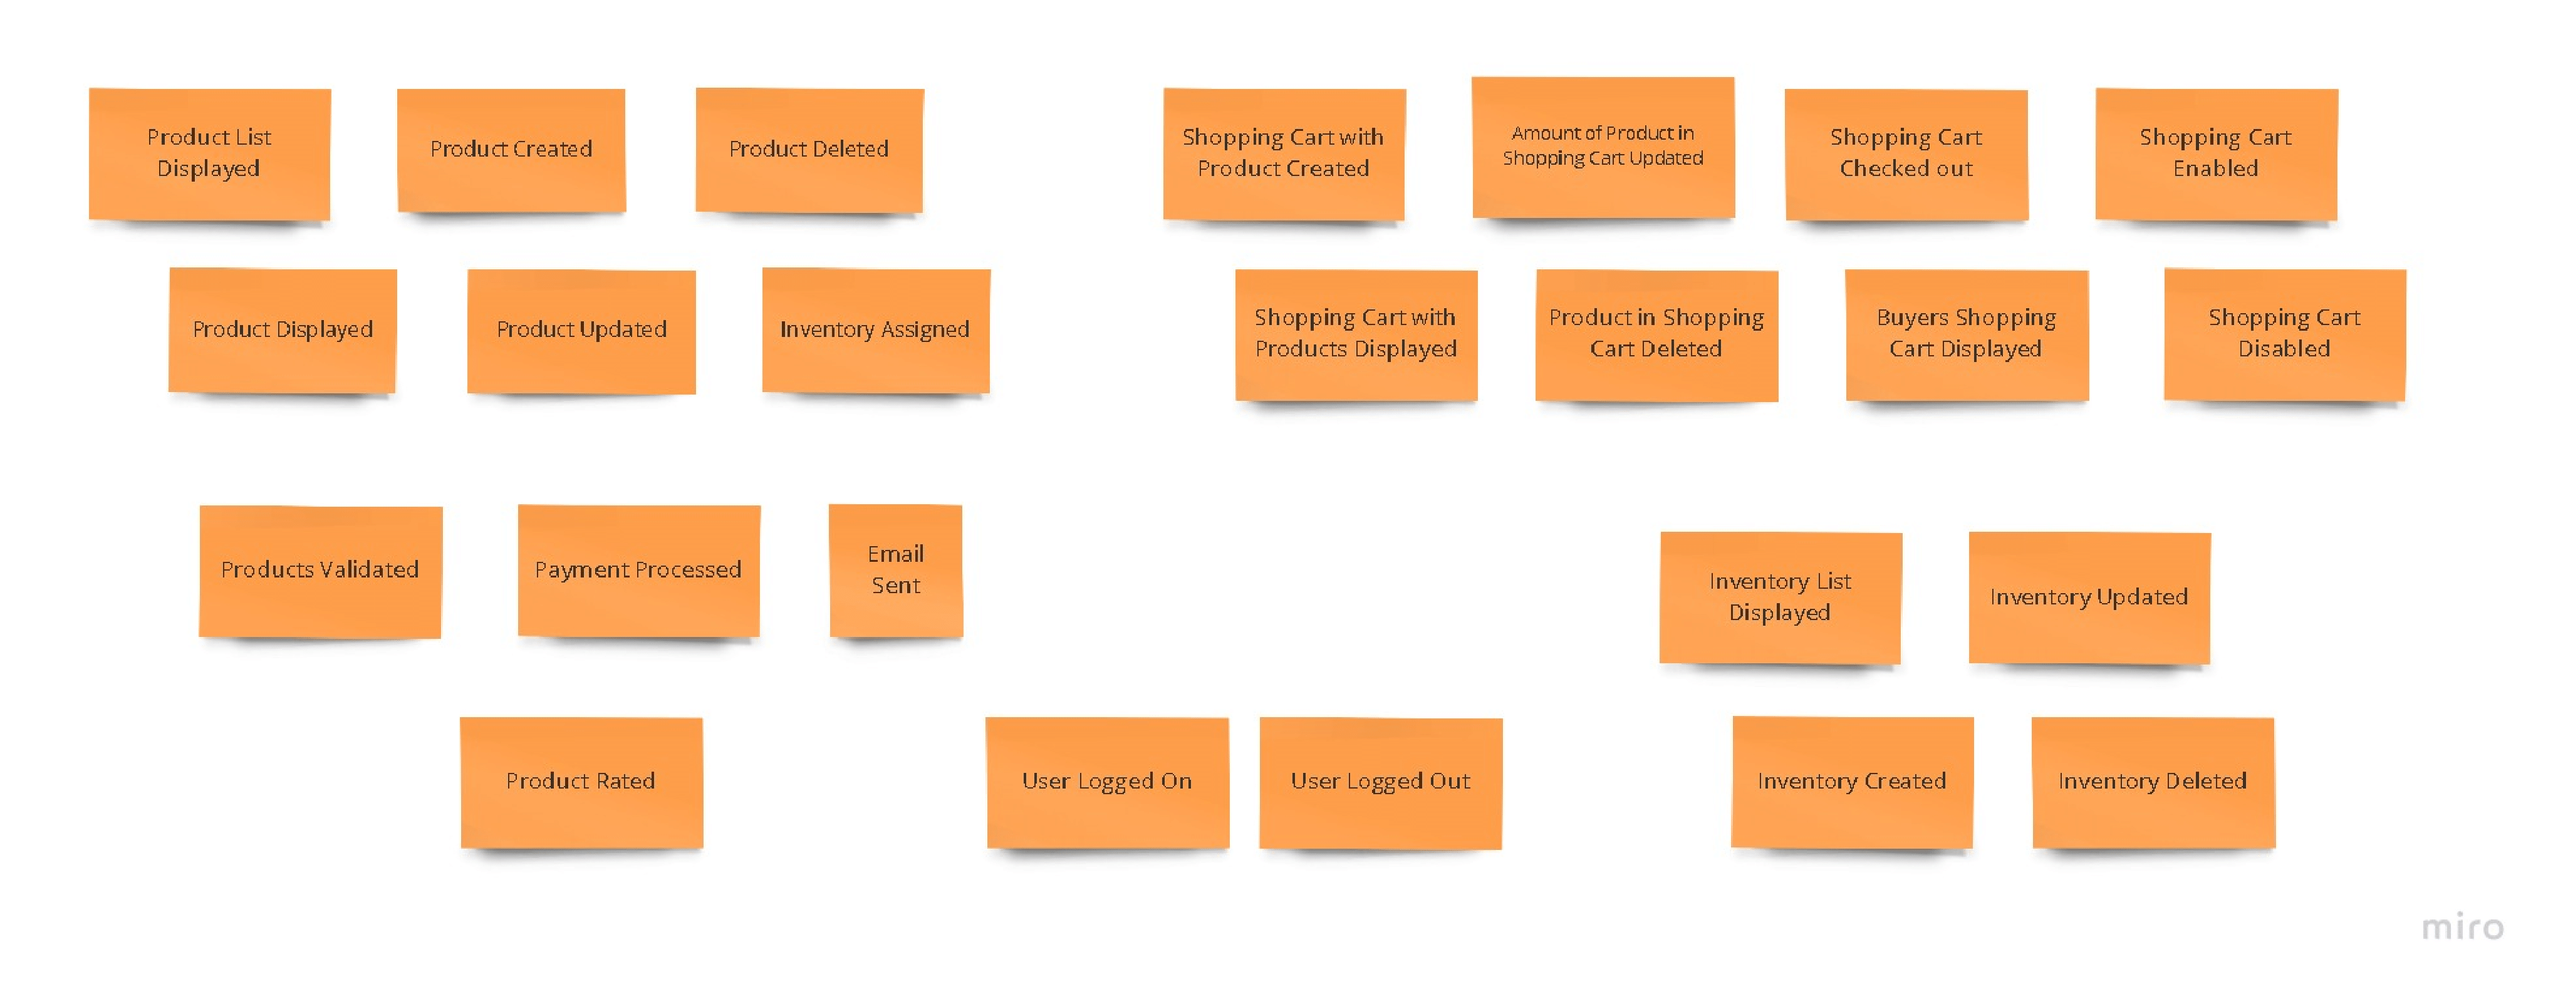
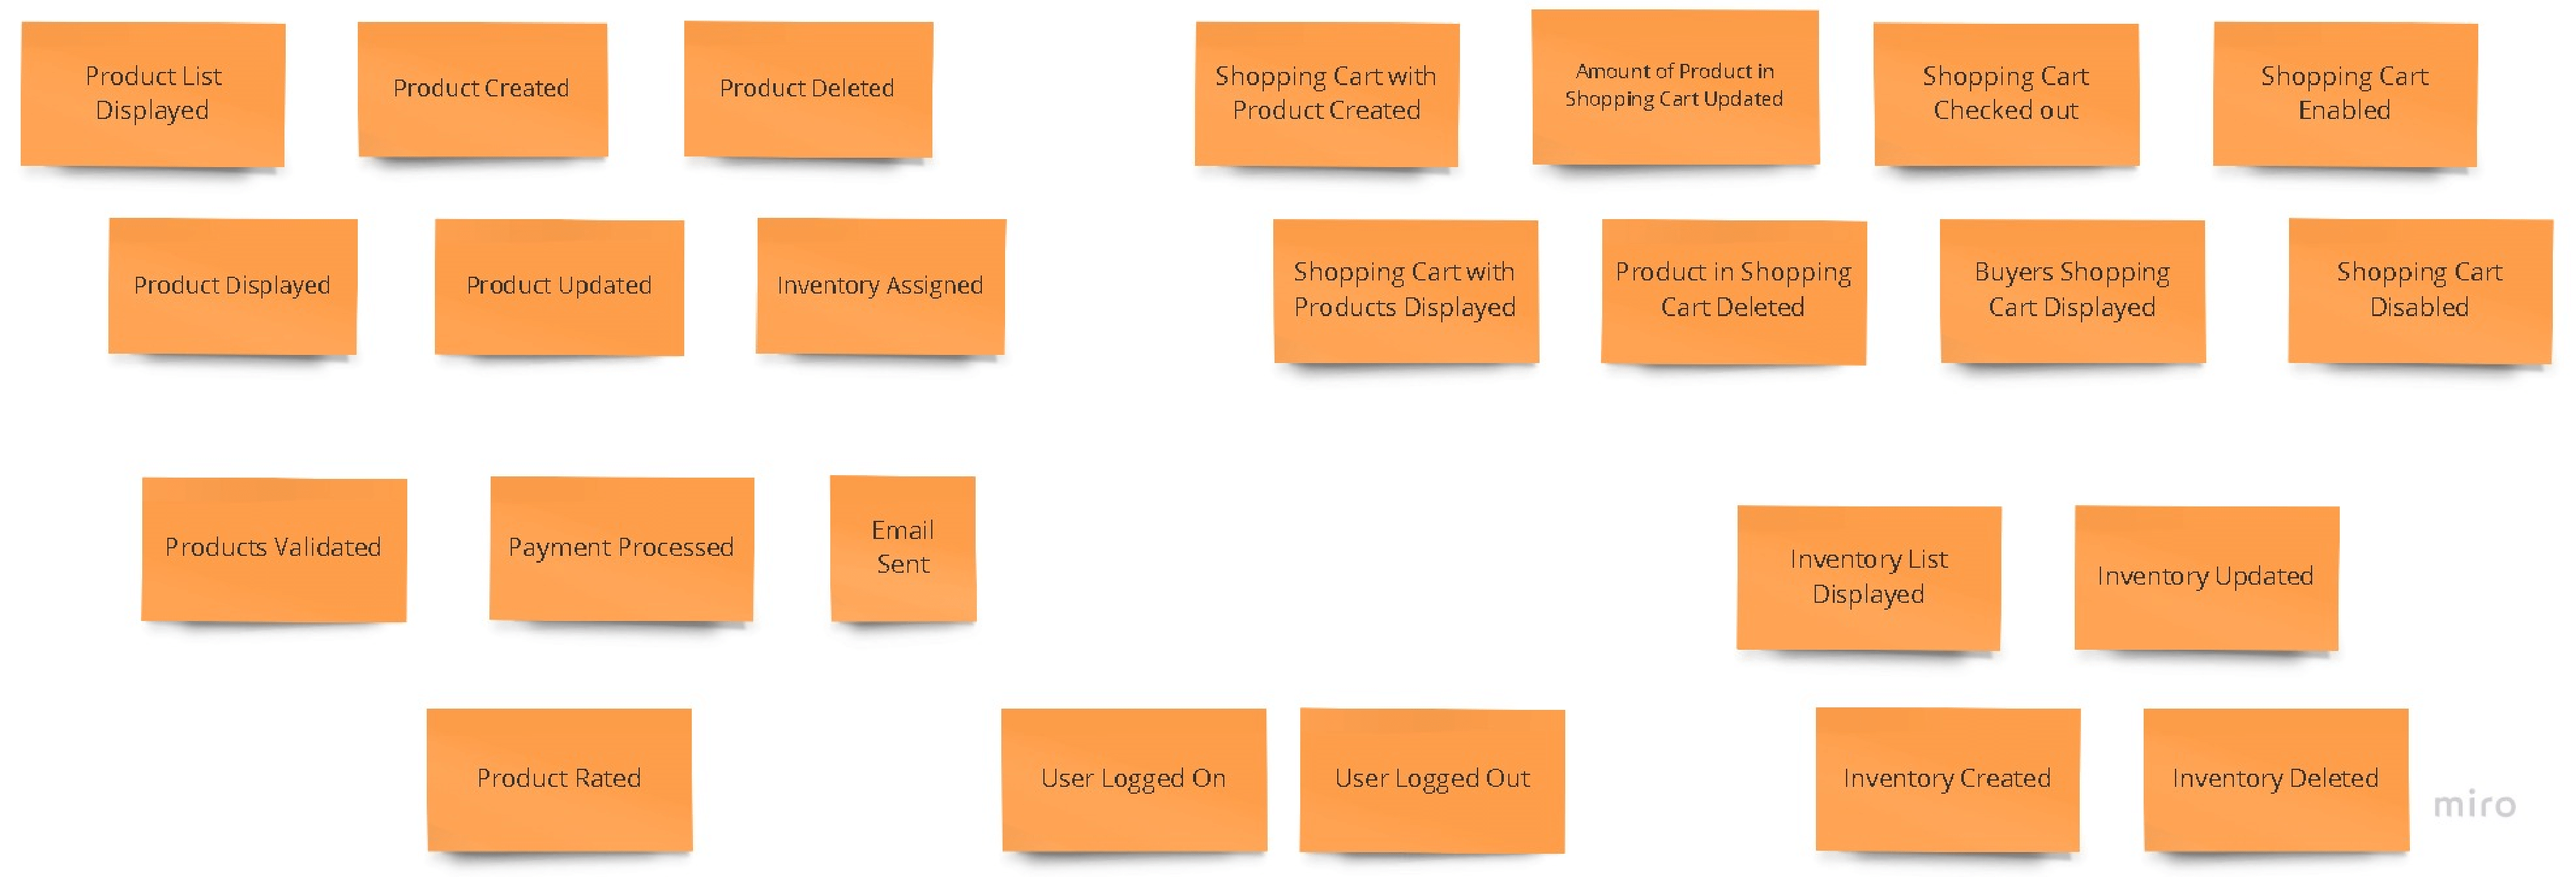
update context maps #48

diff --git a/docs/model-microservices/README.md b/docs/model-microservices/README.md
@@ -125,7 +125,7 @@ Finding Events via Usecases
 
 ## Event Storming: Context Maps
 
-![](/coolstore-microservices/es-context-map.png)
+![](/coolstore-microservices/es-context-map-1.png)
 
 ::: tip
 Finding Integration Events via Events
@@ -173,6 +173,8 @@ Finding Integration Events via Events
 
 - UserLoggedOn
 - UserLoggedOut
+
+![](/coolstore-microservices/es-context-map-2.png)
 
 ## Development: User Story
 
